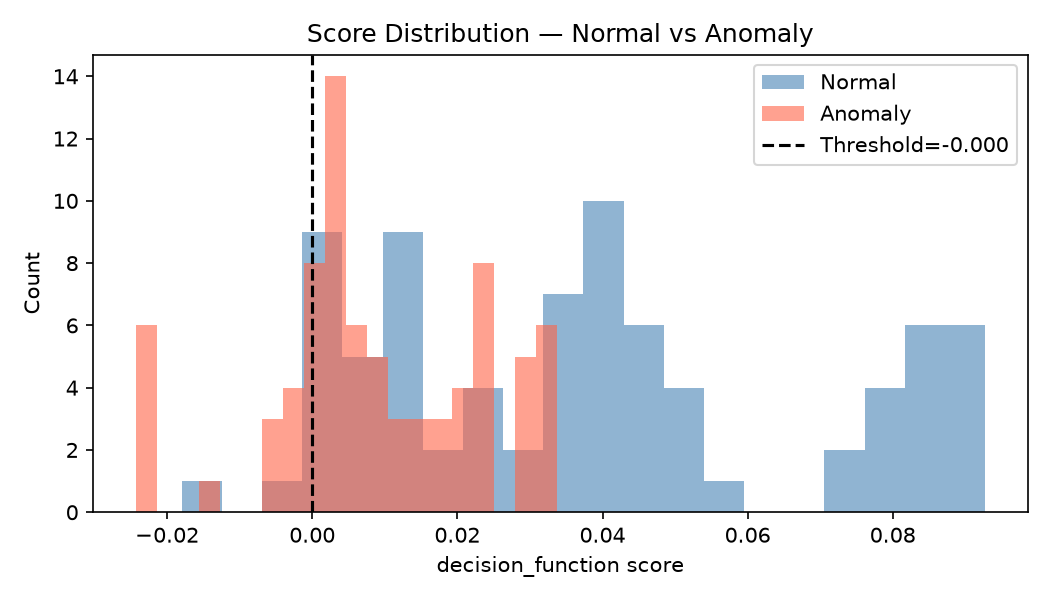
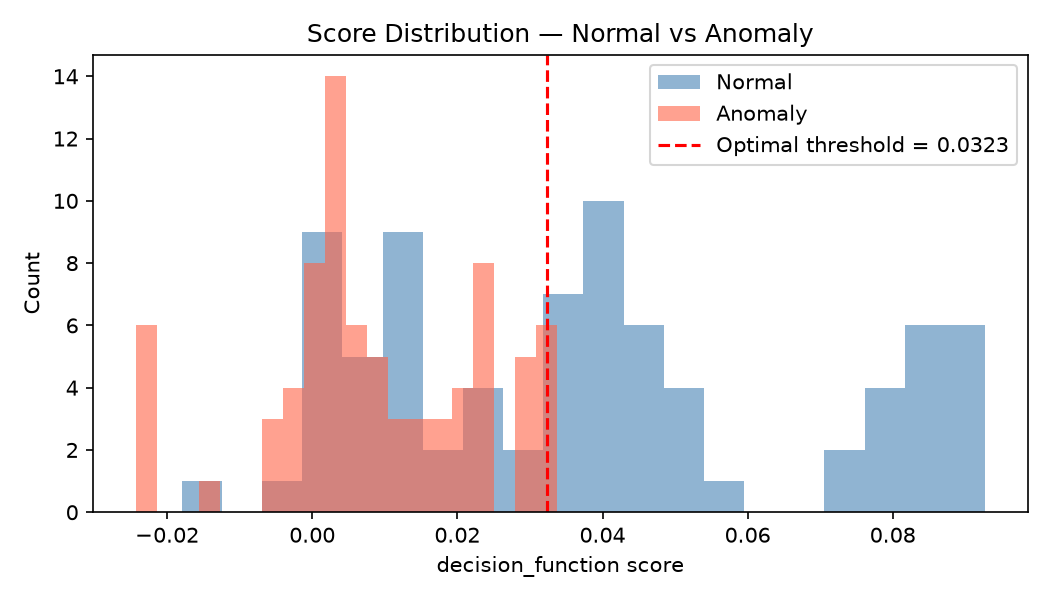
Corrected evaluation metrics

Changed region(s): [[0.6095, 0.09, 0.9752, 0.3]]

diff --git a/evaluation.py b/evaluation.py
@@ -3,16 +3,15 @@ evaluate.py — Offline evaluation of the trained AnomalyDetector
 Uses cached models/anomaly_model.pkl (must exist — run main.py first to train).
 
 Reads:
-    logs/normal_clean.txt  → label 0 (normal)
+    logs/normal_logs.txt  → label 0 (normal)
     logs/anomaly_logs.txt  → label 1 (anomaly)
 
-Outputs:
-    - Classification report (Precision, Recall, F1)
-    - Confusion matrix
-    - ROC curve + AUC
-    - Precision-Recall curve + AUC
-    - Score distribution plot
-    Saved to: evaluation/
+Two thresholds are reported:
+    - Cached threshold : set at training time (5th percentile of normal scores)
+    - Optimal threshold: derived from ROC curve (maximises TPR - FPR)
+
+Outputs saved to: evaluation/
+    confusion_matrix.png, roc_curve.png, pr_curve.png, score_distribution.png
 """
 
 import os
@@ -30,12 +29,11 @@ from sklearn.metrics import (
 )
 from nlp_pipeline import get_embedding
 
-MODEL_PATH      = "models/anomaly_model.pkl"
-NORMAL_PATH     = "logs/normal_logs.txt"
-ANOMALY_PATH    = "logs/anomaly_logs.txt"
-OUTPUT_DIR      = "evaluation"
+MODEL_PATH   = "models/anomaly_model.pkl"
+NORMAL_PATH  = "logs/normal_logs.txt"
+ANOMALY_PATH = "logs/anomaly_logs.txt"
+OUTPUT_DIR   = "evaluation"
 
-# Same regex as query_engine.py
 _LINE_PATTERN = re.compile(
     r'^\d{4}-\d{2}-\d{2}T\d{2}:\d{2}:\d{2}[\S]*\s+\S+\s+[\w/\-\.]+(?:\[\d+\])?:\s+(?P<message>.+)$'
 )
@@ -51,79 +49,83 @@ def load_lines(path: str) -> list[str]:
 def embed_lines(lines: list[str]) -> np.ndarray:
     embeddings = []
     for i, line in enumerate(lines):
-        msg = _extract_message(line)
-        emb = get_embedding(msg)
+        emb = get_embedding(_extract_message(line))
         embeddings.append(emb)
         if (i + 1) % 20 == 0:
             print(f"  Embedded {i+1}/{len(lines)}")
-    X = np.array(embeddings, dtype=np.float32)
-    return normalize(X)
+    return normalize(np.array(embeddings, dtype=np.float32))
 
-
-def main():
-    # ── Load model ────────────────────────────────────────────────────────────
-    if not os.path.isfile(MODEL_PATH):
-        print(f"[Evaluate] No cached model found at {MODEL_PATH}.")
-        print("  Run main.py first to train and cache the model.")
-        return
-
-    model, threshold = joblib.load(MODEL_PATH)
-    print(f"[Evaluate] Loaded model. Threshold={threshold:.4f}")
-
-    # ── Load and embed both datasets ──────────────────────────────────────────
-    print("\n[Evaluate] Embedding normal logs...")
-    normal_lines = load_lines(NORMAL_PATH)
-    X_normal = embed_lines(normal_lines)
-
-    print("\n[Evaluate] Embedding anomaly logs...")
-    anomaly_lines = load_lines(ANOMALY_PATH)
-    X_anomaly = embed_lines(anomaly_lines)
-
-    # ── Build combined dataset with ground truth labels ───────────────────────
-    X = np.vstack([X_normal, X_anomaly])
-    # IsolationForest convention: 1=normal, -1=anomaly
-    # For sklearn metrics we use: 0=normal, 1=anomaly
-    y_true = np.array([0] * len(X_normal) + [1] * len(X_anomaly))
-
-    # ── Score every sample ────────────────────────────────────────────────────
-    raw_scores = model.decision_function(X)   # higher = more normal
-    # Negate so higher score = more anomalous (standard convention for metrics)
-    anomaly_scores = -raw_scores
-
-    # Binary predictions at trained threshold
-    y_pred = (raw_scores < threshold).astype(int)
-
-    # ── Print classification report ───────────────────────────────────────────
-    print("\n── Classification Report ──────────────────────────")
-    print(classification_report(y_true, y_pred, target_names=["Normal", "Anomaly"]))
-
-    # ── Output directory ──────────────────────────────────────────────────────
-    os.makedirs(OUTPUT_DIR, exist_ok=True)
-
-    # ── Plot 1: Confusion Matrix ──────────────────────────────────────────────
-    cm = confusion_matrix(y_true, y_pred)
+def plot_confusion_matrix(cm: np.ndarray, title: str, filename: str) -> None:
     fig, ax = plt.subplots(figsize=(5, 4))
     im = ax.imshow(cm, cmap="Blues")
     ax.set_xticks([0, 1]); ax.set_yticks([0, 1])
     ax.set_xticklabels(["Normal", "Anomaly"])
     ax.set_yticklabels(["Normal", "Anomaly"])
     ax.set_xlabel("Predicted"); ax.set_ylabel("Actual")
-    ax.set_title("Confusion Matrix")
+    ax.set_title(title)
     for i in range(2):
         for j in range(2):
             ax.text(j, i, cm[i, j], ha="center", va="center", fontsize=14,
                     color="white" if cm[i, j] > cm.max() / 2 else "black")
-    fig.colorbar(im, ax=ax)
+    plt.colorbar(im, ax=ax)
     plt.tight_layout()
-    plt.savefig(f"{OUTPUT_DIR}/confusion_matrix.png", dpi=150)
+    plt.savefig(filename, dpi=150)
     plt.close()
+
+
+def main():
+    # ── Load model ────────────────────────────────────────────────────────────
+    if not os.path.isfile(MODEL_PATH):
+        print(f"[Evaluate] No cached model at {MODEL_PATH}. Run main.py first.")
+        return
+
+    model, cached_threshold = joblib.load(MODEL_PATH)
+    print(f"[Evaluate] Loaded model. Cached threshold = {cached_threshold:.4f}")
+
+    # ── Embed datasets ────────────────────────────────────────────────────────
+    print("\n[Evaluate] Embedding normal logs...")
+    X_normal = embed_lines(load_lines(NORMAL_PATH))
+
+    print("\n[Evaluate] Embedding anomaly logs...")
+    X_anomaly = embed_lines(load_lines(ANOMALY_PATH))
+
+    X      = np.vstack([X_normal, X_anomaly])
+    y_true = np.array([0] * len(X_normal) + [1] * len(X_anomaly))
+
+    # ── Scores ────────────────────────────────────────────────────────────────
+    raw_scores    = model.decision_function(X)   # higher = more normal
+    anomaly_scores = -raw_scores                 # higher = more anomalous
+
+    # ── Optimal threshold from ROC curve ──────────────────────────────────────
+    fpr, tpr, thresholds = roc_curve(y_true, anomaly_scores)
+    optimal_idx       = np.argmax(tpr - fpr)
+    optimal_threshold = -thresholds[optimal_idx]   # back to raw_scores space
+    roc_auc           = auc(fpr, tpr)
+    print(f"[Evaluate] Optimal threshold  = {optimal_threshold:.4f}")
+
+    # ── Predictions at optimal threshold (primary) ────────────────────────────
+    y_pred = (raw_scores < optimal_threshold).astype(int)
+
+    # ── Classification report ─────────────────────────────────────────────────
+    print("\n── Classification Report (Optimal Threshold) ──────")
+    print(classification_report(y_true, y_pred, target_names=["Normal", "Anomaly"]))
+
+    os.makedirs(OUTPUT_DIR, exist_ok=True)
+
+    # ── Plot 1: Confusion Matrix (optimal threshold) ──────────────────────────
+    cm = confusion_matrix(y_true, y_pred)
+    plot_confusion_matrix(
+        cm,
+        title=f"Confusion Matrix (threshold={optimal_threshold:.4f})",
+        filename=f"{OUTPUT_DIR}/confusion_matrix.png"
+    )
     print(f"[Evaluate] Saved confusion_matrix.png")
 
     # ── Plot 2: ROC Curve ─────────────────────────────────────────────────────
-    fpr, tpr, _ = roc_curve(y_true, anomaly_scores)
-    roc_auc = auc(fpr, tpr)
     fig, ax = plt.subplots(figsize=(6, 5))
     ax.plot(fpr, tpr, color="steelblue", lw=2, label=f"ROC AUC = {roc_auc:.3f}")
+    ax.scatter(fpr[optimal_idx], tpr[optimal_idx], color="red", zorder=5,
+               label=f"Optimal threshold = {optimal_threshold:.4f}")
     ax.plot([0, 1], [0, 1], "k--", lw=1)
     ax.set_xlabel("False Positive Rate")
     ax.set_ylabel("True Positive Rate")
@@ -149,12 +151,13 @@ def main():
     print(f"[Evaluate] Saved pr_curve.png  (AUC={pr_auc:.3f})")
 
     # ── Plot 4: Score Distribution ────────────────────────────────────────────
-    normal_scores  = raw_scores[:len(X_normal)]
-    anomaly_scores_raw = raw_scores[len(X_normal):]
+    normal_raw  = raw_scores[:len(X_normal)]
+    anomaly_raw = raw_scores[len(X_normal):]
     fig, ax = plt.subplots(figsize=(7, 4))
-    ax.hist(normal_scores,       bins=20, alpha=0.6, color="steelblue",  label="Normal")
-    ax.hist(anomaly_scores_raw,  bins=20, alpha=0.6, color="tomato",     label="Anomaly")
-    ax.axvline(threshold, color="black", linestyle="--", lw=1.5, label=f"Threshold={threshold:.3f}")
+    ax.hist(normal_raw,  bins=20, alpha=0.6, color="steelblue", label="Normal")
+    ax.hist(anomaly_raw, bins=20, alpha=0.6, color="tomato",    label="Anomaly")
+    ax.axvline(optimal_threshold, color="red",   linestyle="--", lw=1.5,
+               label=f"Optimal threshold = {optimal_threshold:.4f}")
     ax.set_xlabel("decision_function score")
     ax.set_ylabel("Count")
     ax.set_title("Score Distribution — Normal vs Anomaly")